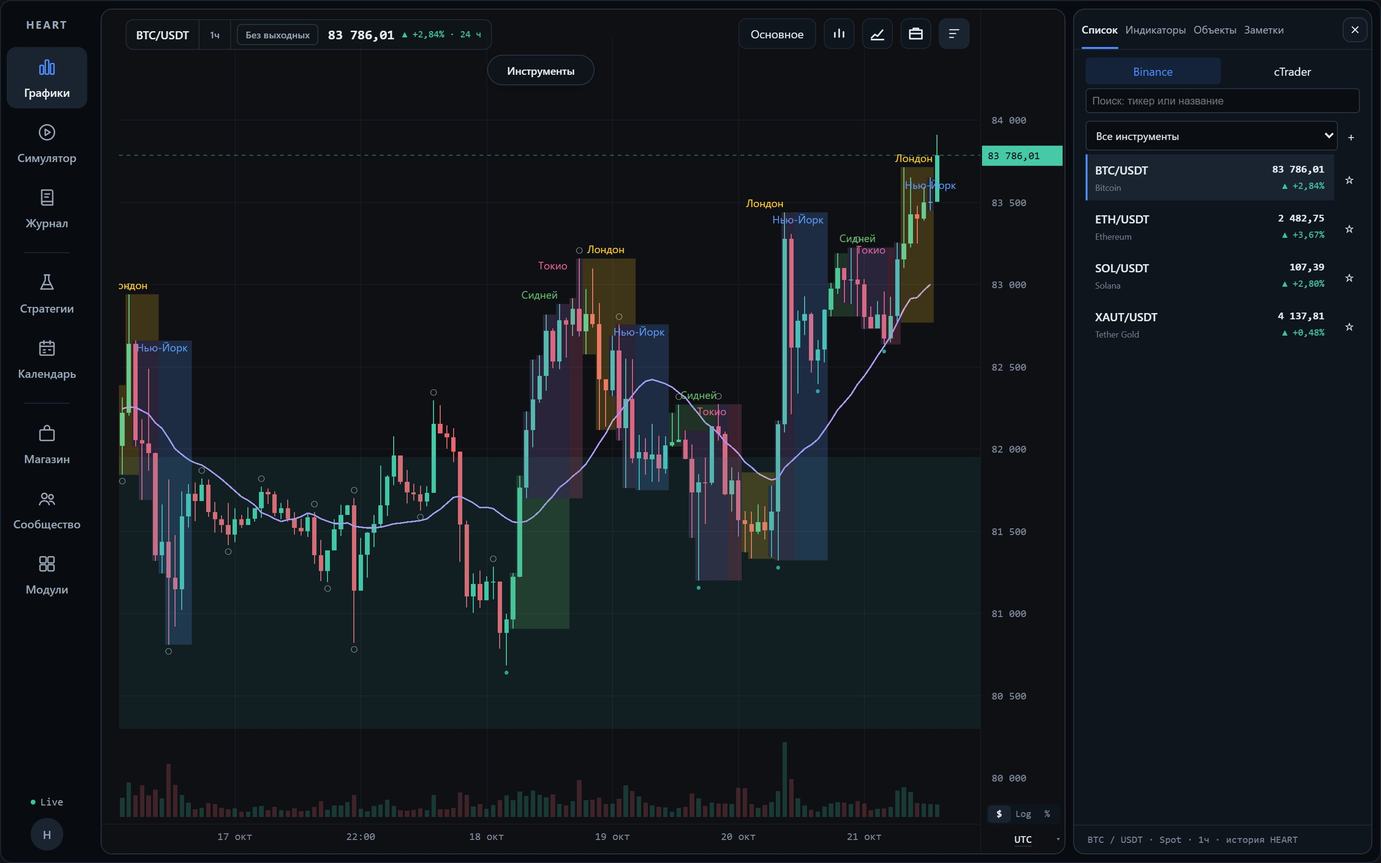
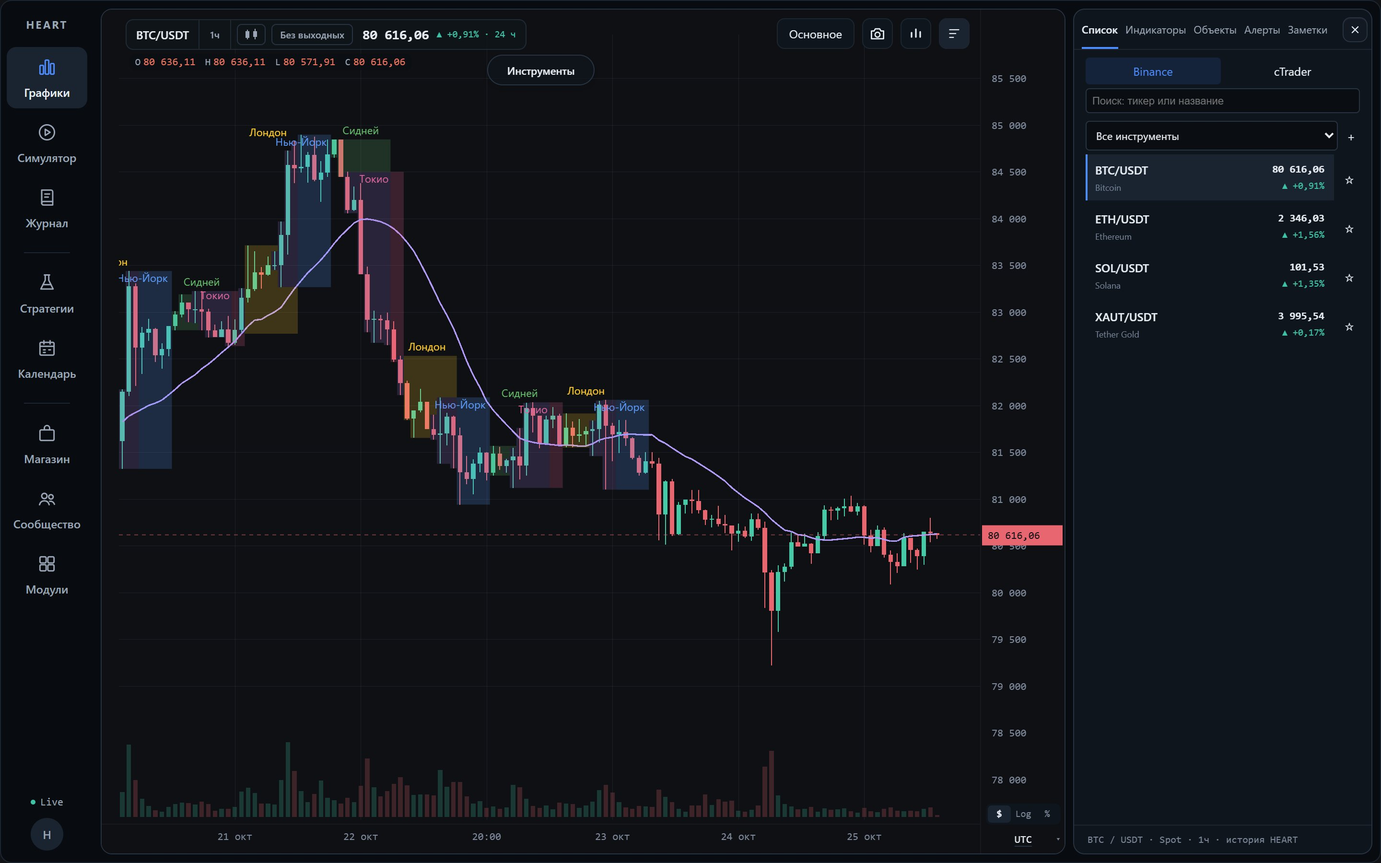
Showcase: trading from the chart, the charts' new abilities, fresh numbers
A section on cTrader trading with a screenshot on a test broker, one on the charts (types, grid sync, drawing keys, alerts, snapshots, new indicators); the charts screenshot retaken without the market structure, which is gone; the journal's R as it is counted now; two more cases; the numbers recounted.

diff --git a/index.html b/index.html
@@ -4,7 +4,7 @@
 <meta charset="utf-8">
 <meta name="viewport" content="width=device-width, initial-scale=1, viewport-fit=cover">
 <meta property="og:title" content="Терминал HEART">
-<meta property="og:description" content="Торговый терминал в браузере: графики, бэктест, боты на Python, журнал сделок.">
+<meta property="og:description" content="Торговый терминал в браузере: графики, торговля через cTrader, алерты, бэктест, боты на Python, журнал сделок.">
 <meta property="og:image" content="https://exswat.github.io/heart-terminal/shots/charts.jpg">
 <meta property="og:url" content="https://exswat.github.io/heart-terminal/">
 <title>Терминал HEART</title>
@@ -198,6 +198,7 @@ dialog.zoom img { max-width: 100%; max-height: 100%; border-radius: 8px; }
     <p>HEART</p>
     <ol>
       <li><a href="#top">Графики</a></li>
+      <li><a href="#trading">Торговля</a></li>
       <li><a href="#strategies">Стратегии</a></li>
       <li><a href="#builder">Конструктор</a></li>
       <li><a href="#code">Редактор кода</a></li>
@@ -220,7 +221,7 @@ dialog.zoom img { max-width: 100%; max-height: 100%; border-radius: 8px; }
         <h1>HEART</h1>
         <p class="ver"><span>версия <b>0.4</b></span><span>октябрь 2026</span></p>
       </div>
-      <p class="lead">Торговый терминал, который работает в браузере. Графики с индикаторами, бэктест стратегий, боты на Python, журнал сделок, симулятор и экономический календарь в одном окне.</p>
+      <p class="lead">Торговый терминал, который работает в браузере. Графики с индикаторами и алертами, торговля через cTrader прямо с графика, бэктест стратегий, боты на Python, журнал сделок, симулятор и экономический календарь в одном окне.</p>
       <dl class="role">
         <dt>Проект</dt>
         <dd>Личный, без команды и заказчика: делаю для себя как трейдер.</dd>
@@ -236,8 +237,40 @@ dialog.zoom img { max-width: 100%; max-height: 100%; border-radius: 8px; }
         <li>Код: <b>закрытый репозиторий</b></li>
       </ul>
       <figure>
-        <button class="shot" type="button" aria-label="Открыть скриншот графиков целиком"><img src="shots/charts.jpg" width="2880" height="1800" alt="Окно графиков HEART: свечной график BTC/USDT на часовом таймфрейме с подписанными торговыми сессиями, объёмом и списком инструментов справа"></button>
-        <figcaption><b>Графики.</b> BTC/USDT, 1 час, живые котировки Binance. На графике торговые сессии (Сидней, Токио, Лондон, Нью-Йорк), структура рынка и объём. Справа список инструментов с переключателем Binance / cTrader.</figcaption>
+        <button class="shot" type="button" aria-label="Открыть скриншот графиков целиком"><img src="shots/charts.jpg" width="2880" height="1800" alt="Окно графиков HEART: свечной график BTC/USDT на часовом таймфрейме с подписанными торговыми сессиями, скользящей средней, объёмом и списком инструментов справа"></button>
+        <figcaption><b>Графики.</b> BTC/USDT, 1 час, живые котировки Binance. На графике торговые сессии (Сидней, Токио, Лондон, Нью-Йорк), SMA 20 и объём, над графиком цены свечи под курсором. Справа список инструментов с переключателем Binance / cTrader.</figcaption>
+      </figure>
+    </section>
+
+    <section class="feature" id="charts">
+      <header>
+        <p class="tag">Графики</p>
+        <h2>Свой движок графиков</h2>
+        <p>Свечи, полые свечи, бары, линия, область и Хайкин-Аши. Сетка до четырёх графиков синхронизирует инструмент, таймфрейм и время. Индикаторы считаются в отдельном потоке и двигаются вместе с формирующейся свечой, значения осцилляторов видны прямо на их шкалах. Рисует WebGPU, а где его нет, Canvas.</p>
+        <ul class="facts">
+          <li>31 инструмент рисования, горячие клавиши и шпаргалка по «?»</li>
+          <li>алерты на цену, линию, RSI, скользящую и MACD</li>
+          <li>снимок графика в буфер, в PNG или к сделке журнала</li>
+          <li>пивоты, уровни прошлого дня и недели, OBV, A/D, MFI, CMF</li>
+        </ul>
+      </header>
+    </section>
+
+    <section class="feature" id="trading">
+      <header>
+        <p class="tag">Торговля</p>
+        <h2>Торговля через cTrader прямо с графика</h2>
+        <p>Любой инструмент счёта cTrader торгуется со своего графика: с тикета, клавишами Shift+B и Shift+S, лимитом или стопом из меню графика и кнопкой «+» у цены, ордером из нарисованной длинной или короткой позиции. Стопы, тейки и ордера стоят на графике с деньгами, которые они принесут или заберут, и перетаскиваются мышью. Трейлинг ведёт брокер, безубыток переносит сервер HEART. Исполнения и срабатывания стопов и тейков приходят уведомлениями.</p>
+        <ul class="facts">
+          <li>на реальном счёте каждое действие подтверждается</li>
+          <li>заявка не уходит дважды</li>
+          <li>по устаревшим данным счёта не торгует</li>
+          <li>объём от риска в процентах счёта</li>
+        </ul>
+      </header>
+      <figure>
+        <button class="shot" type="button" aria-label="Открыть скриншот торговли целиком"><img src="shots/trading.jpg" width="2880" height="1800" alt="График XAU/USD с позицией, её стопом и тейком, лимитным ордером со стопом и панелью торговли: тикет заявки и таблица позиций"></button>
+        <figcaption><b>Счёт, позиция и котировки на этом скриншоте — пример.</b> Снято на тестовом брокере, настоящий счёт сюда не попадает.</figcaption>
       </figure>
     </section>
 
@@ -292,7 +325,7 @@ dialog.zoom img { max-width: 100%; max-height: 100%; border-radius: 8px; }
       <header>
         <p class="tag">Журнал</p>
         <h2>Журнал сделок с разбором каждой</h2>
-        <p>Сделки попадают в журнал вручную, из cTrader или с фьючерсного счёта Binance (только чтение). Результат каждой сделки считается в R, то есть в долях риска: от входа, стопа и процента риска на счёт. Календарь месяца подсвечивает прибыльные и убыточные дни, по сетапам считается винрейт. В разборе сделки видны новости, которые выходили в это время.</p>
+        <p>Сделки попадают в журнал вручную, из cTrader или с фьючерсного счёта Binance (только чтение). Результат каждой сделки считается в R: прибыль, делённая на риск до стопа. Календарь месяца подсвечивает прибыльные и убыточные дни, по сетапам считается винрейт, а счета в разных валютах не складываются. В разборе сделки видны снимок графика и новости, которые выходили в это время.</p>
       </header>
       <figure>
         <button class="shot" type="button" aria-label="Открыть скриншот журнала целиком"><img src="shots/journal.jpg" width="2880" height="1800" alt="Журнал сделок: итоги месяца, кривая капитала, список сделок по дням и разбор сделки EUR/USD"></button>
@@ -371,6 +404,14 @@ dialog.zoom img { max-width: 100%; max-height: 100%; border-radius: 8px; }
           <header><h4>Ключи и секреты</h4><span class="verdict lock">Защищено</span></header>
           <p>Ключи Binance хранятся в зашифрованном виде средствами Windows (DPAPI). Секреты не попадают в адреса запросов и в тексты ошибок, а доступ к счёту Binance только на чтение.</p>
         </article>
+        <article class="case">
+          <header><h4>Реальный счёт</h4><span class="verdict lock">Защищено</span></header>
+          <p>Каждое действие просит второго нажатия, а двойной щелчок за подтверждение не считается. Заявка не уходит дважды, по данным счёта старше 10 секунд торговли нет, а «Безубыток» не возвращает на вход стоп, который уже в прибыли.</p>
+        </article>
+        <article class="case">
+          <header><h4>Фокус на терминале</h4><span class="verdict down">Убрано</span></header>
+          <p>Структура рынка, линии 4h и дня, импульсы и панель деривативов убраны, чтобы довести до ума сам терминал: графики, торговлю и взаимодействие с ними.</p>
+        </article>
       </div>
     </section>
 
@@ -381,8 +422,8 @@ dialog.zoom img { max-width: 100%; max-height: 100%; border-radius: 8px; }
       </header>
       <dl>
         <div><dt>Интерфейс</dt><dd>TypeScript, React 19, Vite, Zustand</dd></div>
-        <div><dt>Графики</dt><dd>Собственный движок отрисовки на WebGPU, индикаторы считаются в отдельном потоке</dd></div>
-        <div><dt>Сервер</dt><dd>Go: история котировок (архив около 7 ГБ), связь с cTrader и календарём</dd></div>
+        <div><dt>Графики</dt><dd>Собственный движок отрисовки на WebGPU с запасным Canvas, индикаторы считаются в отдельном потоке</dd></div>
+        <div><dt>Сервер</dt><dd>Go: история котировок (архив около 7 ГБ), торговля через cTrader и безубыток, календарь, копия данных терминала</dd></div>
         <div><dt>Боты</dt><dd>Python в браузере через Pyodide, движок бэктеста на TypeScript</dd></div>
         <div><dt>Тесты</dt><dd>Playwright, Vitest, go test, проверки перед каждым коммитом</dd></div>
         <div><dt>Данные</dt><dd>Binance, cTrader, FXStreet</dd></div>
@@ -398,7 +439,7 @@ dialog.zoom img { max-width: 100%; max-height: 100%; border-radius: 8px; }
 
 <footer>
   <div class="wrap">
-    <p>Скриншоты сняты с работающего терминала 21 октября 2026 года. Котировки и события настоящие, сделки в журнале — пример.</p>
+    <p>Скриншоты сняты с работающего терминала 21 и 25 октября 2026 года. Котировки и события настоящие, сделки в журнале и счёт на скриншоте торговли — пример.</p>
     <p>Исходный код в закрытом репозитории, могу показать его на созвоне.</p>
   </div>
 </footer>

diff --git a/README.md b/README.md
@@ -1,6 +1,6 @@
 # HEART
 
-**Торговый терминал, который работает в браузере.** Графики с индикаторами, бэктест стратегий, боты на Python, журнал сделок, симулятор и экономический календарь в одном окне.
+**Торговый терминал, который работает в браузере.** Графики с индикаторами и алертами, торговля через cTrader прямо с графика, бэктест стратегий, боты на Python, журнал сделок, симулятор и экономический календарь в одном окне.
 
 **Страница проекта:** https://exswat.github.io/heart-terminal/
 
@@ -12,17 +12,17 @@
 
 Исходный код HEART лежит в закрытом репозитории. Здесь только витрина: описание и скриншоты работающего терминала.
 
-![Графики HEART: BTC/USDT, 1 час, торговые сессии, структура рынка и объём](shots/charts.jpg)
+![Графики HEART: BTC/USDT, 1 час, торговые сессии, SMA 20 и объём](shots/charts.jpg)
 
 ## В цифрах
 
 | | |
 | --- | --- |
-| TypeScript | ≈ 49 тыс. строк |
-| Go (сервер) | ≈ 16 тыс. строк |
-| Сквозные тесты (Playwright) | 157 |
-| Модульные тесты (Vitest) | 360+ |
-| Тесты сервера (Go) | 110+ |
+| TypeScript | ≈ 55 тыс. строк |
+| Go (сервер) | ≈ 18 тыс. строк |
+| Сквозные тесты (Playwright) | 227 |
+| Модульные тесты (Vitest) | 410+ |
+| Тесты сервера (Go) | 130 |
 | Разделов в приложении | 8 |
 | Архив котировок | ≈ 7 ГБ |
 
@@ -30,7 +30,20 @@
 
 ### Графики
 
-Живые котировки Binance и cTrader. Индикаторы считаются в отдельном потоке, график рисует собственный движок на WebGPU. На скриншоте выше: торговые сессии (Сидней, Токио, Лондон, Нью-Йорк), структура рынка и объём.
+Живые котировки Binance и cTrader. Свечи, полые свечи, бары, линия, область и Хайкин-Аши; сетка до четырёх графиков синхронизирует инструмент, таймфрейм и время. Индикаторы считаются в отдельном потоке и двигаются вместе с формирующейся свечой, график рисует собственный движок на WebGPU, а где его нет, Canvas. На скриншоте выше: торговые сессии (Сидней, Токио, Лондон, Нью-Йорк), SMA 20 и объём.
+
+- 31 инструмент рисования, горячие клавиши и шпаргалка по «?»
+- алерты на цену, линию, RSI, скользящую и MACD
+- снимок графика в буфер, в PNG или к сделке журнала
+- пивоты, уровни прошлого дня и недели, OBV, A/D, MFI, CMF
+
+### Торговля через cTrader
+
+Любой инструмент счёта cTrader торгуется со своего графика: с тикета, клавишами Shift+B и Shift+S, лимитом или стопом из меню графика и кнопкой «+» у цены, ордером из нарисованной длинной или короткой позиции. Стопы, тейки и ордера стоят на графике с деньгами, которые они принесут или заберут, и перетаскиваются мышью. Трейлинг ведёт брокер, безубыток переносит сервер HEART. На реальном счёте каждое действие подтверждается, заявка не уходит дважды, по устаревшим данным счёта торговли нет.
+
+![Торговля с графика: позиция, её стоп и тейк, лимитный ордер и панель торговли](shots/trading.jpg)
+
+> Счёт, позиция и котировки на этом скриншоте — пример: снято на тестовом брокере.
 
 ### Стратегии и бэктест
 
@@ -56,7 +69,7 @@
 
 ### Журнал сделок
 
-Сделки попадают в журнал вручную, из cTrader или с фьючерсного счёта Binance (только чтение). Результат каждой сделки считается в R, то есть в долях риска. Календарь месяца подсвечивает прибыльные и убыточные дни, по сетапам считается винрейт, а в разборе сделки видны новости, которые выходили в это время.
+Сделки попадают в журнал вручную, из cTrader или с фьючерсного счёта Binance (только чтение). Результат каждой сделки считается в R: прибыль, делённая на риск до стопа. Календарь месяца подсвечивает прибыльные и убыточные дни, по сетапам считается винрейт, а в разборе сделки видны снимок графика и новости, которые выходили в это время.
 
 ![Журнал сделок: итоги месяца, кривая капитала и разбор сделки](shots/journal.jpg)
 
@@ -93,14 +106,16 @@
 - **Источник календаря — заменено.** Investing начал ограничивать запросы. Календарь переведён на FXStreet через собственный сервер, запросы не отправляются пачками.
 - **Скорость после перестройки — измерено.** После разбивки на модули запуск занимает 366 мс (было 388), первое открытие раздела 5–11 мс (было 310).
 - **Ключи и секреты — защищено.** Ключи Binance хранятся зашифрованными средствами Windows (DPAPI), секреты не попадают в адреса запросов и тексты ошибок, доступ к счёту Binance только на чтение.
+- **Реальный счёт — защищено.** Каждое действие просит второго нажатия, двойной щелчок за подтверждение не считается. Заявка не уходит дважды, по данным счёта старше 10 секунд торговли нет, «Безубыток» не возвращает на вход стоп, который уже в прибыли.
+- **Фокус на терминале — убрано.** Структура рынка, линии 4h и дня, импульсы и панель деривативов убраны, чтобы довести до ума сам терминал.
 
 ## Стек
 
 | | |
 | --- | --- |
 | Интерфейс | TypeScript, React 19, Vite, Zustand |
-| Графики | Собственный движок отрисовки на WebGPU |
-| Сервер | Go: история котировок, связь с cTrader и календарём |
+| Графики | Собственный движок отрисовки на WebGPU с запасным Canvas |
+| Сервер | Go: история котировок, торговля через cTrader и безубыток, календарь |
 | Боты | Python в браузере через Pyodide, бэктест на TypeScript |
 | Тесты | Playwright, Vitest, go test |
 | Данные | Binance, cTrader, FXStreet |
@@ -110,4 +125,4 @@
 
 ---
 
-Скриншоты сняты с работающего терминала 21 октября 2026 года. Котировки и события настоящие, сделки в журнале — пример.
+Скриншоты сняты с работающего терминала 21 и 25 октября 2026 года. Котировки и события настоящие, сделки в журнале и счёт на скриншоте торговли — пример.
